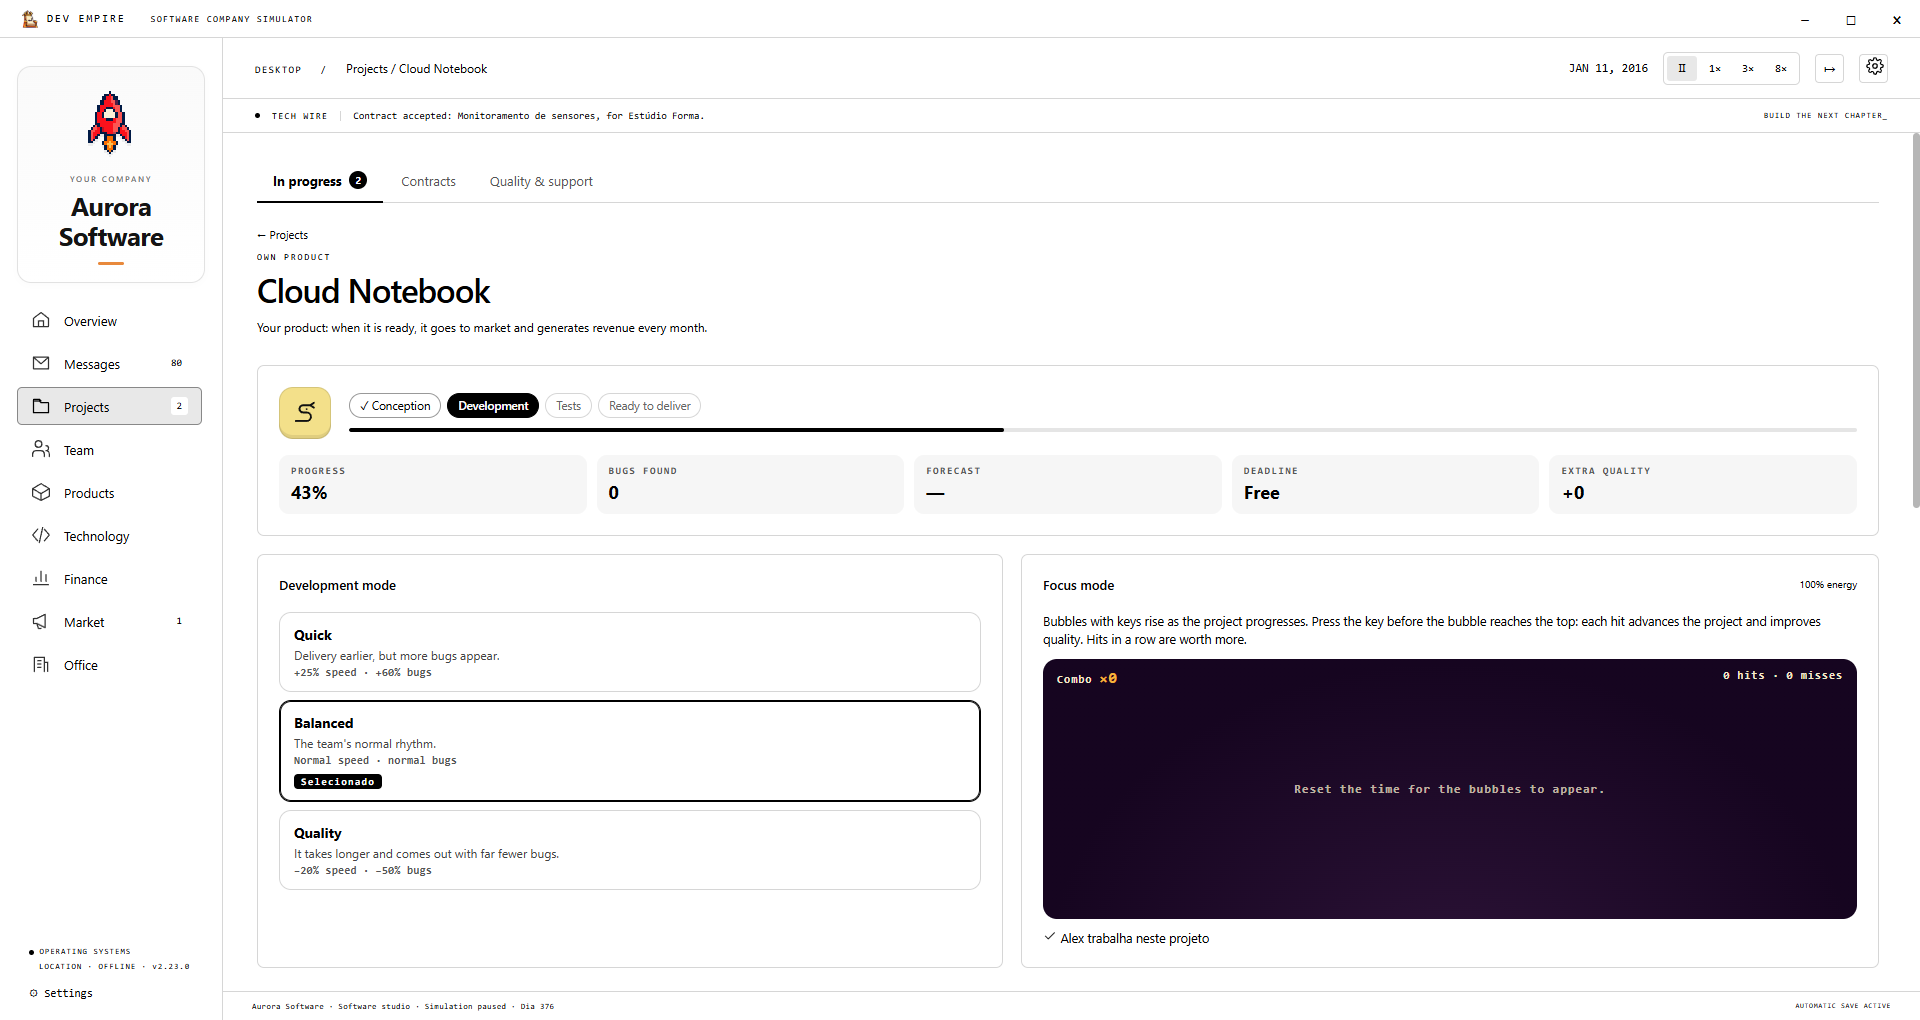
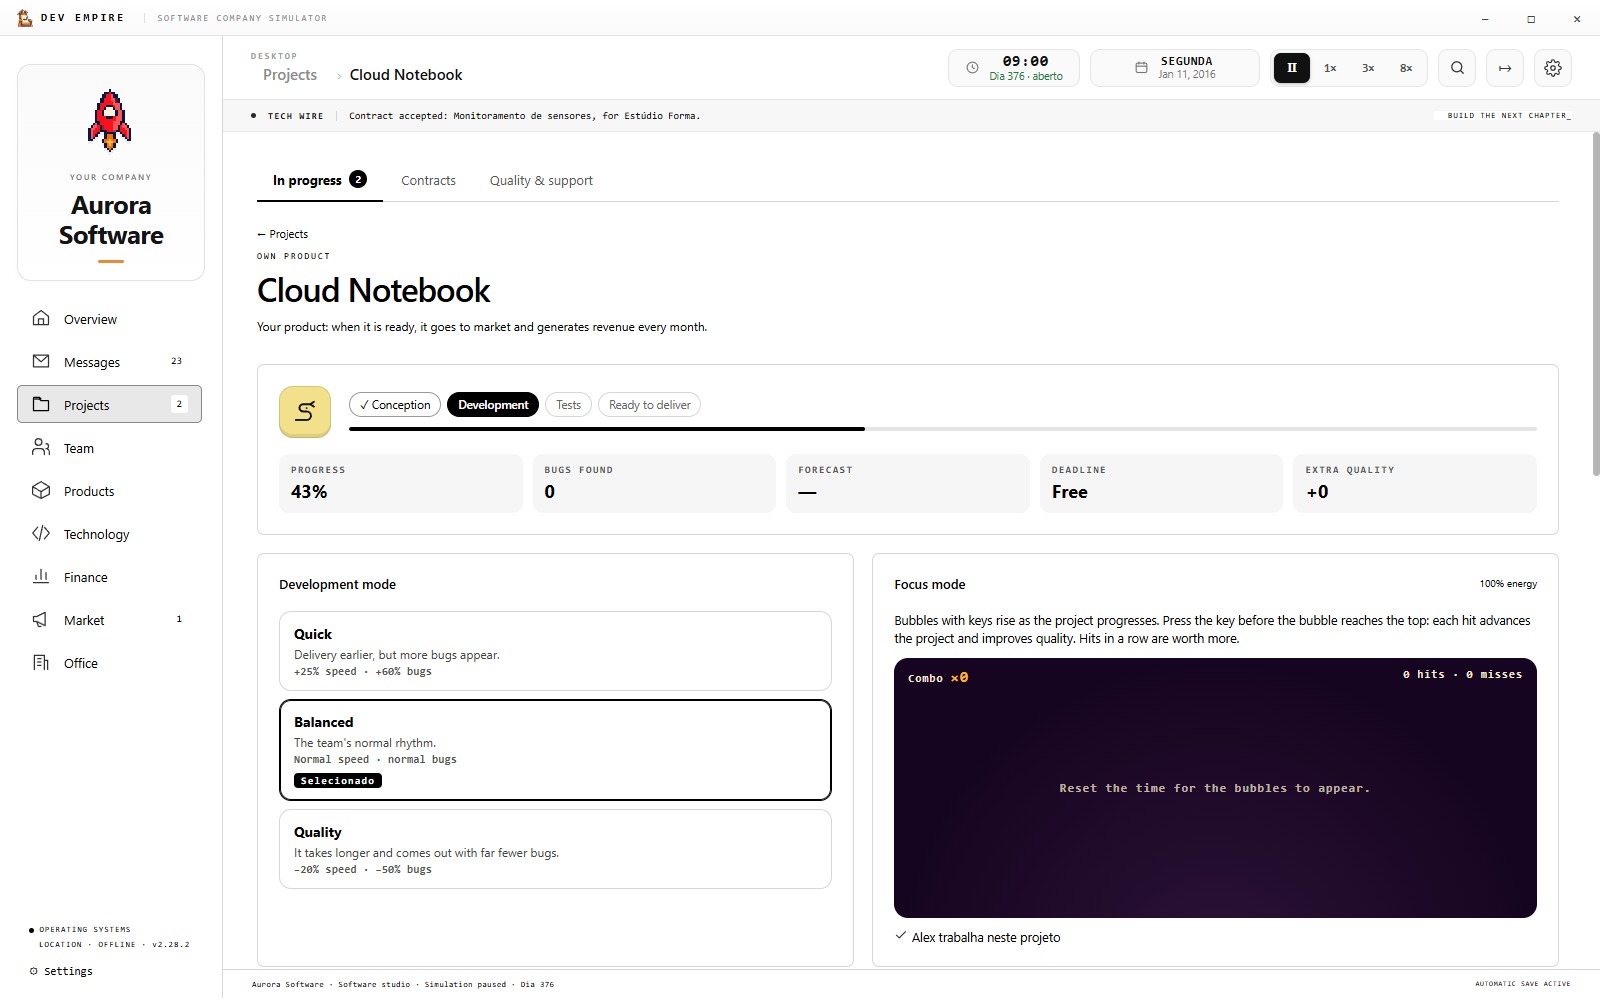
Update Beta 2.28.2 downloads and current gameplay gallery

diff --git a/README.md b/README.md
@@ -7,7 +7,7 @@
 <p align="center"><strong>Start with an idea. Build a company. Make your mark.</strong><br>A software company tycoon, made in Brazil for players around the world.</p>
 
 <p align="center">
-  <a href="https://github.com/ithalov/dev-empire/releases/tag/v2.23.0"><img src="https://img.shields.io/badge/version-2.23.0-F28C28?style=flat-square" alt="Version 2.23.0"></a>
+  <a href="https://github.com/ithalov/dev-empire/releases/tag/v2.28.2"><img src="https://img.shields.io/badge/version-2.28.2-F28C28?style=flat-square" alt="Version 2.28.2"></a>
   <img src="https://img.shields.io/badge/status-BETA-9B59B6?style=flat-square" alt="Beta — in development">
   <img src="https://img.shields.io/badge/platform-Windows_x64-0078D4?style=flat-square" alt="Windows x64">
   <img src="https://img.shields.io/badge/languages-7-2E7D32?style=flat-square" alt="Seven interface languages">
@@ -15,7 +15,8 @@
 </p>
 
 <p align="center">
-  <a href="https://github.com/ithalov/dev-empire/releases/download/v2.23.0/Dev-Empire-2.23.0-Windows.exe"><img src="https://img.shields.io/badge/DOWNLOAD_BETA_2.23.0-WINDOWS_x64-F28C28?style=for-the-badge&logo=github&logoColor=white" alt="Download Dev Empire Beta 2.23.0 for Windows"></a>
+  <a href="https://github.com/ithalov/dev-empire/releases/download/v2.28.2/Dev-Empire-2.28.2-Windows.exe"><img src="https://img.shields.io/badge/DOWNLOAD_PORTABLE_2.28.2-WINDOWS_x64-F28C28?style=for-the-badge&logo=github&logoColor=white" alt="Download Dev Empire Beta 2.28.2 portable for Windows"></a><br>
+  <a href="https://github.com/ithalov/dev-empire/releases/download/v2.28.2/Dev-Empire-Setup-2.28.2.exe">Prefer an installer? Download Windows Setup</a>
 </p>
 
 <p align="center">
@@ -57,7 +58,7 @@ A glimpse of your future workspace. The rest is yours to discover.
 
 </details>
 
-<sub>Actual Windows Beta 2.23.0 screenshots, using a demonstration company with the interface set to English. Click an image to enlarge it.</sub>
+<sub>Actual Windows Beta 2.28.2 screenshots, using a demonstration company with the interface set to English. Click an image to enlarge it.</sub>
 
 ## Made in Brazil, open to the world
 
@@ -69,21 +70,21 @@ Your feedback helps shape the game as it grows.
 
 Play in **English, Brazilian Portuguese, Spanish, French, German, Simplified Chinese or Japanese**. Brazilian Portuguese is the original language.
 
-Choose your language in **Settings → Language**. English and the other additional translations are being refined during the beta, so some wording may still need polish.
+Choose your language in **Settings → Language**. English and the other additional translations are being refined during the beta. Some screens still contain Brazilian Portuguese text.
 
 ## Start playing
 
-1. **[Download the Windows executable](https://github.com/ithalov/dev-empire/releases/download/v2.23.0/Dev-Empire-2.23.0-Windows.exe).**
-2. Open **Dev-Empire-2.23.0-Windows.exe**. This is a portable build; no separate runtime installation is needed.
+1. Choose **[Windows Setup](https://github.com/ithalov/dev-empire/releases/download/v2.28.2/Dev-Empire-Setup-2.28.2.exe)** or the **[portable edition](https://github.com/ithalov/dev-empire/releases/download/v2.28.2/Dev-Empire-2.28.2-Windows.exe)**.
+2. Run **Dev-Empire-Setup-2.28.2.exe** to install with shortcuts, or open **Dev-Empire-2.28.2-Windows.exe** to play without installation. Both editions include the runtime.
 3. Found your company and follow the founder's guide.
 
 | Game details | Current beta |
 |---|---|
 | Platform | Windows x64 |
 | Experience | Single-player · offline |
-| Download | Approximately 126 MB |
+| Downloads | Portable: approximately 144 MB · Installer: approximately 158 MB |
 | Progress | Local autosaves and save import/export |
-| Current release | **Beta 2.23.0** |
+| Current release | **Beta 2.28.2** |
 
 **Updating from an earlier build:** export a backup of your save in Settings and close the old game before opening the new executable.
 
@@ -100,7 +101,14 @@ Choose your language in **Settings → Language**. English and the other additio
 
 Dev Empire is in active development. Bugs may occur, and updates can change content, balance and the interface.
 
-**Beta 2.23.0** makes the business world more active, expands company news and adds new economic events and annual recognition. Explore it at your own pace, or read the **[release notes](https://github.com/ithalov/dev-empire/releases/tag/v2.23.0)** for details.
+**Beta 2.28.2** brings more personality to your workplace and more ways to shape your company. Recent updates include:
+
+- **A workplace that evolves:** computers change with the era, with expanded offices, production spaces and a medical wing.
+- **Your own identity:** customize company and product logos, with 56 ready-made pixel-art company emblems and more staff portraits.
+- **More control over your team:** set working hours, recruit for specific skills and assign people across locations.
+- **A growing business world:** react to company news, manage relationships with rivals and plan ahead with financial forecasts.
+
+The latest update redesigns office computers, hospital equipment, factory machinery and the staff allocation screen. Read the **[2.28.2 release notes](https://github.com/ithalov/dev-empire/releases/tag/v2.28.2)** for the details.
 
 ## Help shape the next chapter
 
@@ -108,4 +116,4 @@ Dev Empire is in active development. Bugs may occur, and updates can change cont
 
 ---
 
-<p align="center"><strong>Made in Brazil. Built for your next big idea.</strong><br><a href="https://github.com/ithalov/dev-empire/releases/download/v2.23.0/Dev-Empire-2.23.0-Windows.exe">Start your company.</a></p>
+<p align="center"><strong>Made in Brazil. Built for your next big idea.</strong><br><a href="https://github.com/ithalov/dev-empire/releases/download/v2.28.2/Dev-Empire-2.28.2-Windows.exe">Start your company.</a></p>
